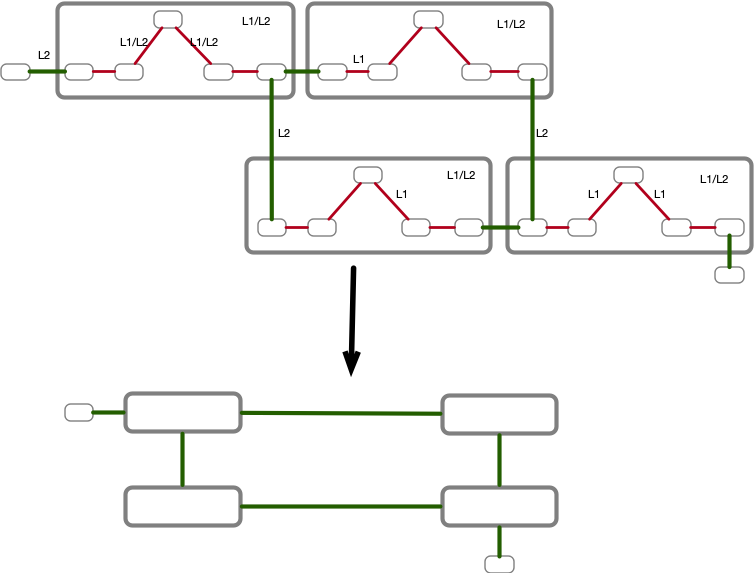
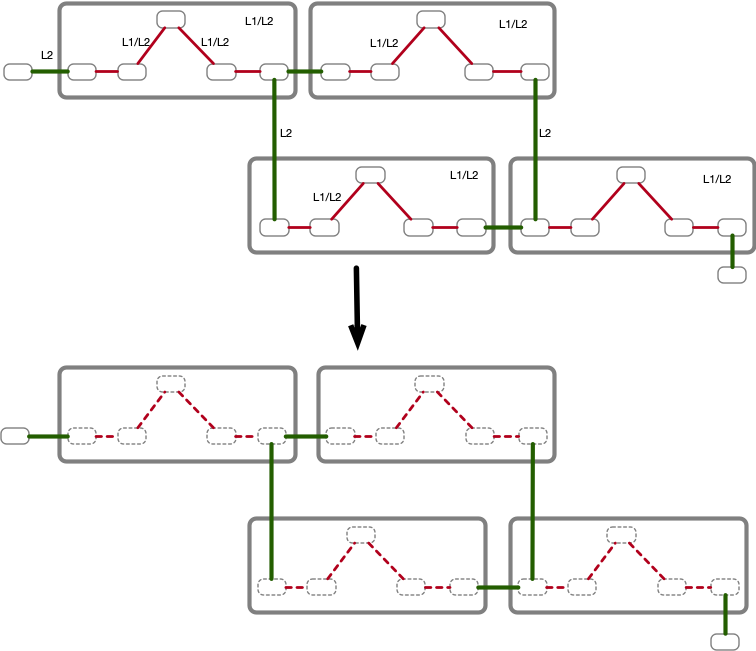
fixup

Changed region(s): [[0.0, 0.0, 1.0, 1.0], [0.244, 0.623, 0.2745, 0.6527]]

diff --git a/_posts/2022-6-05-IS-IS-Area-Proxy.md b/_posts/2022-6-05-IS-IS-Area-Proxy.md
@@ -27,8 +27,9 @@ them as Transit, we will have to make L1 only links as L1/L2 like below:
 ![L1-L2](/images/post12/l1_l2_both.png "L1 and L2")
 
 But with this arrangement, we have not achieved anything compared to running a flat level2 and perhaps made it worse by 
-running both L1 and L2 vs. running a flat L2 domain. However if we can abstract these transit fabrics as a single node, 
-then we can scale level 2 domains a lot more than without it.
+running both L1 and L2 vs. running L2 only domain. 
+
+What if we can abstract these transit fabrics as a single node, then we can scale level 2 domains a lot more than without it.
 
 ![Abstracted L1/L2](/images/post12/abstracted_l1l2.png "Abstracted L1/L2Network")
 
